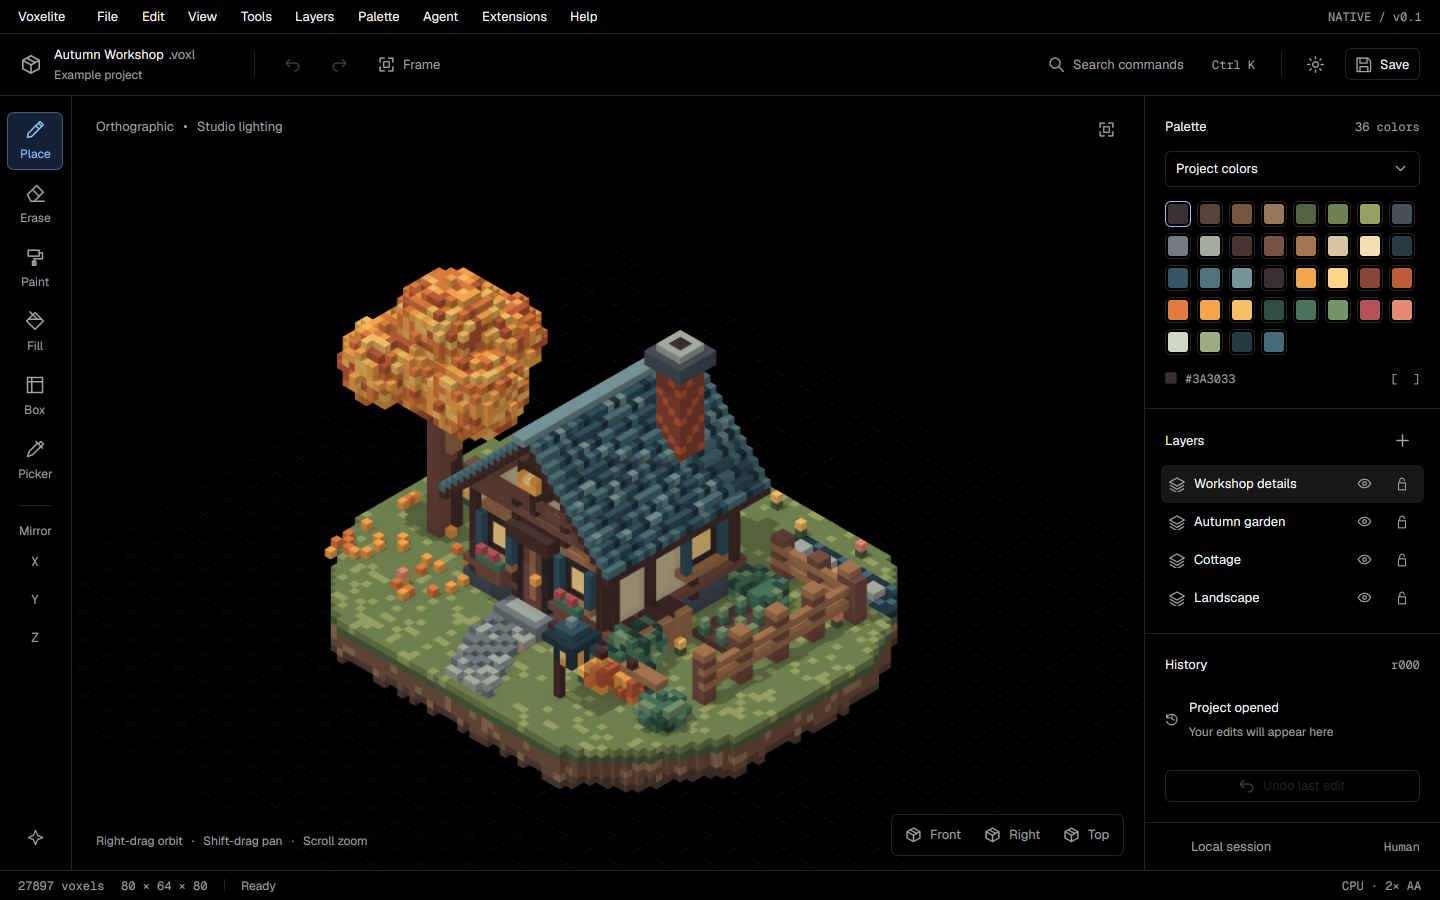
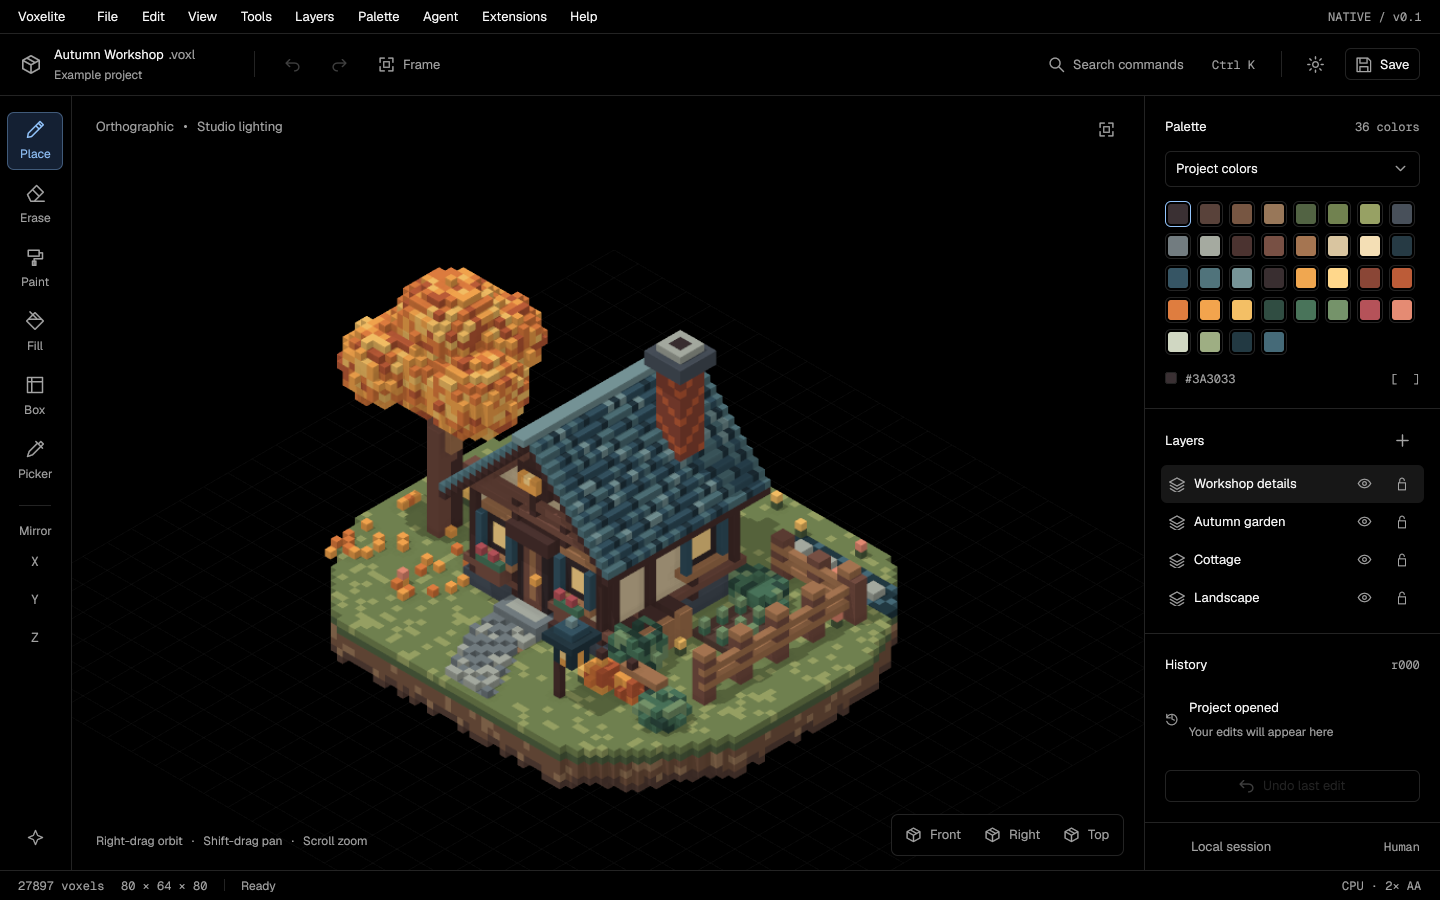
Verify Linux GPUI runtime, release viewport textures and capture both themes

diff --git a/crates/voxelite-app/src/main.rs b/crates/voxelite-app/src/main.rs
@@ -65,6 +65,7 @@ fn options() -> anyhow::Result<Options> {
     Ok(options)
 }
 fn main() -> anyhow::Result<()> {
+    env_logger::Builder::from_env(env_logger::Env::default().default_filter_or("warn")).init();
     let options = options()?;
     let editor = match options.path {
         Some(path) => Editor::open(&path)?,

diff --git a/crates/voxelite-app/src/ui.rs b/crates/voxelite-app/src/ui.rs
@@ -122,7 +122,7 @@ impl EditorView {
             viewport: Rc::new(Cell::new(Bounds::default())),
             hover: None,
             drag: None,
-            grid: false,
+            grid: true,
             menu: None,
             menu_index: 0,
             palette_open: false,

diff --git a/docs/verification/native-app.md b/docs/verification/native-app.md
@@ -1,0 +1,59 @@
+# Native GPUI stage verification
+
+Verified 2026-10-25 in the Linux build worktree. Scope: `voxelite-app`, binary
+`voxelite`. No plugin or web application was built, and `design/` was unchanged.
+
+## Build and automated checks
+
+- Rust 1.99.1 stable, edition 2024.
+- `gpui-unofficial = 1.25.3`, `gpui-platform-gpui-unofficial = 1.25.3`; complete
+  registry resolutions and checksums are recorded in `Cargo.lock`.
+- `cargo build -p voxelite-app --bin voxelite`: passes on Linux with native GPUI.
+- `cargo fmt --all -- --check`: passes.
+- `cargo clippy --workspace --all-targets -- -D warnings`: passes.
+- `cargo test --workspace`: **90 passed, 0 failed**, including 16 editor tests.
+- `cargo test -p voxelite-app --no-default-features`: **16 passed**, with GPUI
+  excluded. Camera/raycast, tools, mirror, locks/visibility, palette capacity,
+  atomic failure, undo/redo, file round trips and forward metadata are covered.
+
+## Native smoke checks
+
+Actual GPUI windows ran under Xvfb at 1440×900 using Mesa's llvmpipe/lavapipe
+Vulkan adapter. The image is a CPU render of the embedded 27,897-voxel Autumn
+Workshop, composed by GPUI; the chrome is native Rust, not an HTML capture.
+
+Checked both explicit themes, palette previews, command-search text isolation,
+search/arrow/Enter operation, in-window menus, tool selection, hover picking,
+pointer placement, keyboard placement, undo, native GTK Save As via GPUI/XDG
+portal, subsequent saves to that path, and the CLI path argument. A saved
+keyboard/pointer edit produced 27,898 voxels; undo and save restored 27,897.
+Saving uses the canonical format and retains project identity and metadata.
+
+Repeated 1024×640 → 1440×900 resizes, orbit drags and hover changes were inspected.
+The sidebar scrolls at the minimum window size. Pixel comparison confirmed
+unchanged menu text across the orbit stress captures. Replaced viewport images
+are explicitly removed from GPUI's texture atlas. Grayscale font antialiasing
+keeps the bundled Geist fonts consistent on software rendering.
+
+Navigation has coalesced lower-resolution previews and an antialiased settled
+frame. A 1024×900 CPU-only PNG took approximately 2.3 seconds on this runner in
+the development profile with optimized core/renderer; this is one observation,
+not a performance guarantee. No GPU or display is initialized by `--viewport-png`.
+
+## Artifacts and reproduction
+
+- [Dark native window](../../screenshots/app-dark.png)
+- [Light native window](../../screenshots/app-light.png)
+- [Display-free viewport](../../screenshots/viewport.png)
+- [Capture script](../../scripts/capture-native.sh)
+- [Build dependencies, controls and stage boundaries](../../crates/voxelite-app/README.md)
+
+The screenshots are 1440×900 and were visually inspected after regeneration.
+The viewport PNG is 1024×900. Dark/light surface samples are exact `#000000` /
+`#ffffff`. The script creates a private Xvfb display and session D-Bus, uses the
+Mesa software driver, captures actual windows with ImageMagick, and tears down
+its processes. Set `RUST_LOG` for GPUI/WGPU diagnostics if needed.
+
+This is Linux native-build and headless-runtime evidence. macOS hardware,
+Wayland runtime, assistive technology and the future session/plugin integrations
+have not been certified by these checks.
